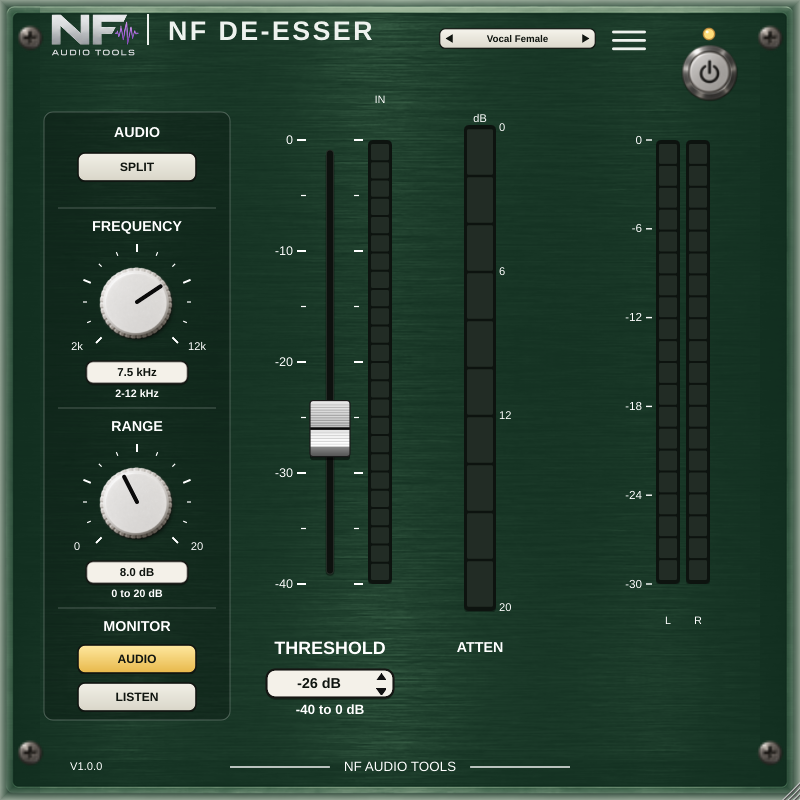
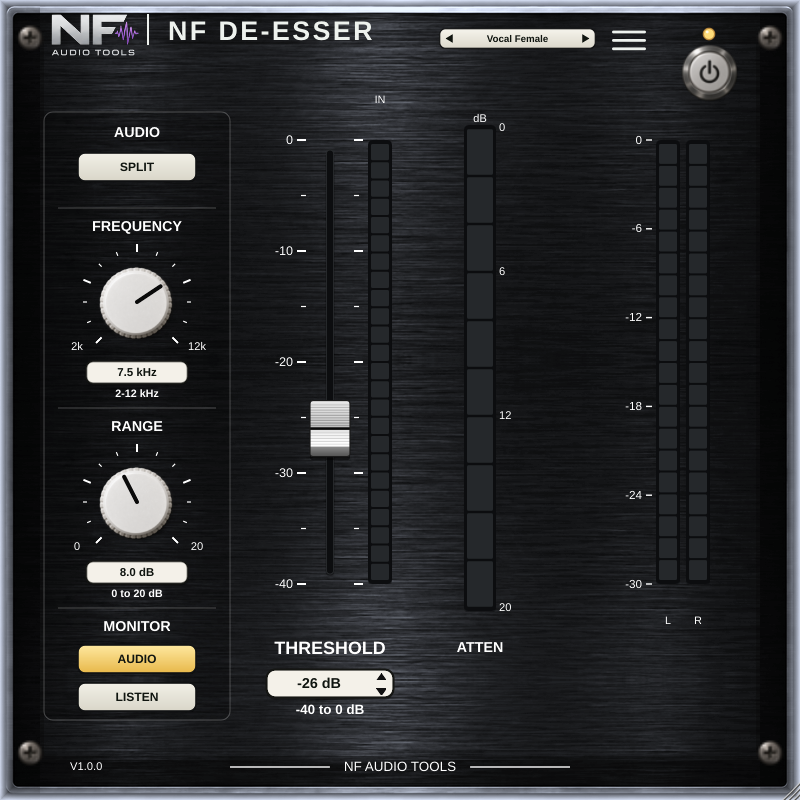
Black brushed-steel chassis (owner's choice) and neutral dark UI colours
Claude-Session: https://claude.ai/code/session_01EbhKLRF1YXDywKjGvwZhBR

diff --git a/Source/PluginEditor.h b/Source/PluginEditor.h
@@ -17,7 +17,7 @@ public:
         const float barX = 14.0f*s, barW = 26.0f*s, top = 16.0f*s, bottom = (float)getHeight() - 4.0f*s;
         g.setColour(juce::Colour(0x50000000));
         g.fillRoundedRectangle(barX-3.0f*s, top-3.0f*s+2.0f*s, barW+6.0f*s, bottom-top+6.0f*s, 5.0f*s);
-        g.setColour(juce::Colour(0xff0d130f));
+        g.setColour(juce::Colour(0xff0c0d0f));
         g.fillRoundedRectangle(barX-3.0f*s, top-3.0f*s, barW+6.0f*s, bottom-top+6.0f*s, 5.0f*s);
         const float segH = (bottom-top) / (float)numSeg;
         for (int i=0;i<numSeg;++i)
@@ -25,7 +25,7 @@ public:
             const bool lit = shown > ((float)i + 0.05f) * (maxDb/(float)numSeg);
             const bool hot = i >= 6;
             juce::Rectangle<float> seg(barX, top + (float)i*segH + 1.2f*s, barW, segH - 2.4f*s);
-            g.setColour(lit ? (hot ? juce::Colour(0xffe8863a) : juce::Colour(0xffffdd7a)) : juce::Colour(0xff222c25));
+            g.setColour(lit ? (hot ? juce::Colour(0xffe8863a) : juce::Colour(0xffffdd7a)) : juce::Colour(0xff25282b));
             g.fillRoundedRectangle(seg, 1.5f*s);
             if (lit){ g.setColour(juce::Colours::white.withAlpha(0.35f)); g.fillRoundedRectangle(seg.reduced(1.5f*s).removeFromTop(seg.getHeight()*0.35f), 1.0f*s); }
         }
@@ -64,7 +64,7 @@ public:
         g.setGradientFill(on ? juce::ColourGradient(juce::Colour(0xffffe9a0), 0.0f, r.getY(), juce::Colour(0xffe8b84a), 0.0f, r.getBottom(), false)
                              : juce::ColourGradient(juce::Colour(over ? 0xfffaf8ef : 0xfff2f0e7), 0.0f, r.getY(), juce::Colour(0xffd9d6c9), 0.0f, r.getBottom(), false));
         g.fillRoundedRectangle(r, 7.0f*s);
-        g.setColour(juce::Colour(0xff111511));
+        g.setColour(juce::Colour(0xff111213));
         g.drawRoundedRectangle(r, 7.0f*s, 1.6f*s);
         g.setColour(juce::Colour(0xff101510));
         g.setFont(juce::Font(juce::FontOptions(13.5f*s,juce::Font::bold)));
@@ -86,7 +86,7 @@ public:
         auto b = getLocalBounds().toFloat();
         g.setColour(juce::Colour(0x50000000));
         g.fillRoundedRectangle(b.translated(0.0f,2.0f*s), 5.0f*s);
-        g.setColour(juce::Colour(0xff0d130f));
+        g.setColour(juce::Colour(0xff0c0d0f));
         g.fillRoundedRectangle(b, 5.0f*s);
         const auto inner = b.reduced(3.0f*s);
         const float segH = inner.getHeight() / (float)numSeg;
@@ -96,7 +96,7 @@ public:
             const bool lit = shown > lowDb + 0.05f;
             const bool hot = i >= numSeg - juce::jmax(2, numSeg/5);
             juce::Rectangle<float> seg(inner.getX(), inner.getBottom() - (float)(i+1)*segH + 1.0f*s, inner.getWidth(), segH - 2.0f*s);
-            g.setColour(lit ? (hot ? juce::Colour(0xffe8863a) : juce::Colour(0xffffdd7a)) : juce::Colour(0xff222c25));
+            g.setColour(lit ? (hot ? juce::Colour(0xffe8863a) : juce::Colour(0xffffdd7a)) : juce::Colour(0xff25282b));
             g.fillRoundedRectangle(seg, 1.4f*s);
             if (lit){ g.setColour(juce::Colours::white.withAlpha(0.3f)); g.fillRoundedRectangle(seg.reduced(1.2f*s).removeFromTop(seg.getHeight()*0.35f), 1.0f*s); }
         }
@@ -162,7 +162,7 @@ public:
         g.fillRoundedRectangle(r.translated(0.0f,2.0f*s), 8.0f*s);
         g.setGradientFill(juce::ColourGradient(juce::Colour(0xfff6f4ec), 0.0f, r.getY(), juce::Colour(0xffdcd9cc), 0.0f, r.getBottom(), false));
         g.fillRoundedRectangle(r, 8.0f*s);
-        g.setColour(juce::Colour(0xff111511));
+        g.setColour(juce::Colour(0xff111213));
         g.drawRoundedRectangle(r, 8.0f*s, 1.6f*s);
         // arrows
         g.setColour(juce::Colour(0xff101510));
@@ -210,7 +210,7 @@ public:
     void paint(juce::Graphics& g) override
     {
         auto b = getLocalBounds().toFloat().reduced(1.0f);
-        g.setColour(juce::Colour(0xff0a140d).withAlpha(0.85f));
+        g.setColour(juce::Colour(0xff0a0b0c).withAlpha(0.85f));
         g.fillRoundedRectangle(b, 6.0f);
         g.setColour(juce::Colour(0xffd9d4c4).withAlpha(0.6f));
         g.drawRoundedRectangle(b, 6.0f, 1.0f);

diff --git a/Source/UI/NFDeEsserLookAndFeel.cpp b/Source/UI/NFDeEsserLookAndFeel.cpp
@@ -76,9 +76,9 @@ void NFDeEsserLookAndFeel::drawLinearSlider(juce::Graphics& g,int x,int y,int wi
     // Groove: matte black, rounded, with a soft shadow.
     g.setColour(juce::Colour(0x55000000));
     g.fillRoundedRectangle(centreX-4.5f*s, trackTop+2.0f*s, 9.0f*s, trackBottom-trackTop, 4.5f*s);
-    g.setColour(juce::Colour(0xff0d110e));
+    g.setColour(juce::Colour(0xff0c0d0f));
     g.fillRoundedRectangle(centreX-3.5f*s, trackTop, 7.0f*s, trackBottom-trackTop, 3.5f*s);
-    g.setColour(juce::Colour(0xff2a302b));
+    g.setColour(juce::Colour(0xff2c2f31));
     g.drawRoundedRectangle(centreX-3.5f*s, trackTop, 7.0f*s, trackBottom-trackTop, 3.5f*s, 0.8f*s);
 
     // Thumb: silver ribbed fader cap (like the classic console / DAW faders): upper half silver, lower half brighter, a black line at the
@@ -176,5 +176,5 @@ juce::Label* NFDeEsserLookAndFeel::createSliderTextBox(juce::Slider& s)
 
 void NFDeEsserLookAndFeel::drawButtonBackground(juce::Graphics& g,juce::Button& b,const juce::Colour&,bool over,bool down)
 {
-    auto r=b.getLocalBounds().toFloat().reduced(1);g.setColour(juce::Colour(down?0xffb9b8b1:(over?0xfffaf8ef:0xffe8e6dd)));g.fillRoundedRectangle(r,4);g.setColour(juce::Colour(0xff111511));g.drawRoundedRectangle(r,4,1.2f);
+    auto r=b.getLocalBounds().toFloat().reduced(1);g.setColour(juce::Colour(down?0xffb9b8b1:(over?0xfffaf8ef:0xffe8e6dd)));g.fillRoundedRectangle(r,4);g.setColour(juce::Colour(0xff111213));g.drawRoundedRectangle(r,4,1.2f);
 }

diff --git a/Source/PluginEditor.cpp b/Source/PluginEditor.cpp
@@ -239,7 +239,7 @@ void NFDeEsserAudioProcessorEditor::drawFaderScale(juce::Graphics& g,juce::Slide
 
 void NFDeEsserAudioProcessorEditor::paint(juce::Graphics& g)
 {
-    g.fillAll(juce::Colour(0xff0a1b11));
+    g.fillAll(juce::Colour(0xff0b0c0e));
     juce::Graphics::ScopedSaveState state(g);
     g.addTransform(juce::AffineTransform::scale(layoutScale).translated(offsetX, offsetY));
 

diff --git a/CLAUDE.md b/CLAUDE.md
@@ -36,4 +36,4 @@ After a bump, grep for the old version to catch anything missed:
 - Parameters: `freq` 2-12 kHz (centre 5 kHz), `threshold`, `range`, `listen`, `wide` (false = Split, true = Wide), `power`. The processor publishes `gainReductionDb`, `detectorLevelDb` and `outputLevelDb[2]` for the meters.
 - No licence system yet (NF Q3 has one); decide before selling.
 
-- UI: NF De-Esser is the one SQUARE plug-in of the family (owner's design): 800 x 800 base layout, default window 540 x 540 (the same 0.675 text scale as the 810 x 270 plug-ins), aspect 1:1, limits 405..1200. Its chassis is `Assets/PNG_READY_800x800/01_chassis_800x800.png`, built from the family chassis texture. The size chosen with the resize handle is stored in the plug-in state (`uiWidth`) and restored when the window is reopened; double-click on the NF logo returns to 540 x 540. Preset tab (prev / name / next) at the top right; the 3-line button holds About.
+- UI: NF De-Esser is the one SQUARE plug-in of the family (owner's design): 800 x 800 base layout, default window 540 x 540 (the same 0.675 text scale as the 810 x 270 plug-ins), aspect 1:1, limits 405..1200. Its chassis is `Assets/PNG_READY_800x800/01_chassis_800x800.png`: BLACK BRUSHED STEEL (owner's choice; the other NF plug-ins are green), made from the family chassis texture by mapping its luminance to a dark steel ramp (frame slightly darkened). UI colours that were green-tinted (meter segments, backgrounds) are neutral dark grey. The size chosen with the resize handle is stored in the plug-in state (`uiWidth`) and restored when the window is reopened; double-click on the NF logo returns to 540 x 540. Preset tab (prev / name / next) at the top right; the 3-line button holds About.

diff --git a/README.md b/README.md
@@ -2,7 +2,7 @@
 
 Simple split-band de-esser by **NF Audio Tools** (Nenno Fernando) for vocals, drums and mixes. VST3, AU (macOS) and AAX (Pro Tools).
 
-Layout inspired by classic de-esser plug-ins, in the NF green look:
+Layout inspired by classic de-esser plug-ins, in the NF look (with a **black brushed-steel** chassis, the owner's choice for this plug-in):
 - **Left column:** **AUDIO** mode (**SPLIT**: only the sibilance band is turned down, **WIDE**: the whole signal is turned down), **FREQUENCY** (2-12 kHz,
   round knob with a value box) and **MONITOR** (**AUDIO** / **LISTEN**: Listen plays only the band the de-esser hears, to find the "s").
 - **Range** (0..20 dB: the most it will ever turn down) is a round knob in the left column, like Frequency.
